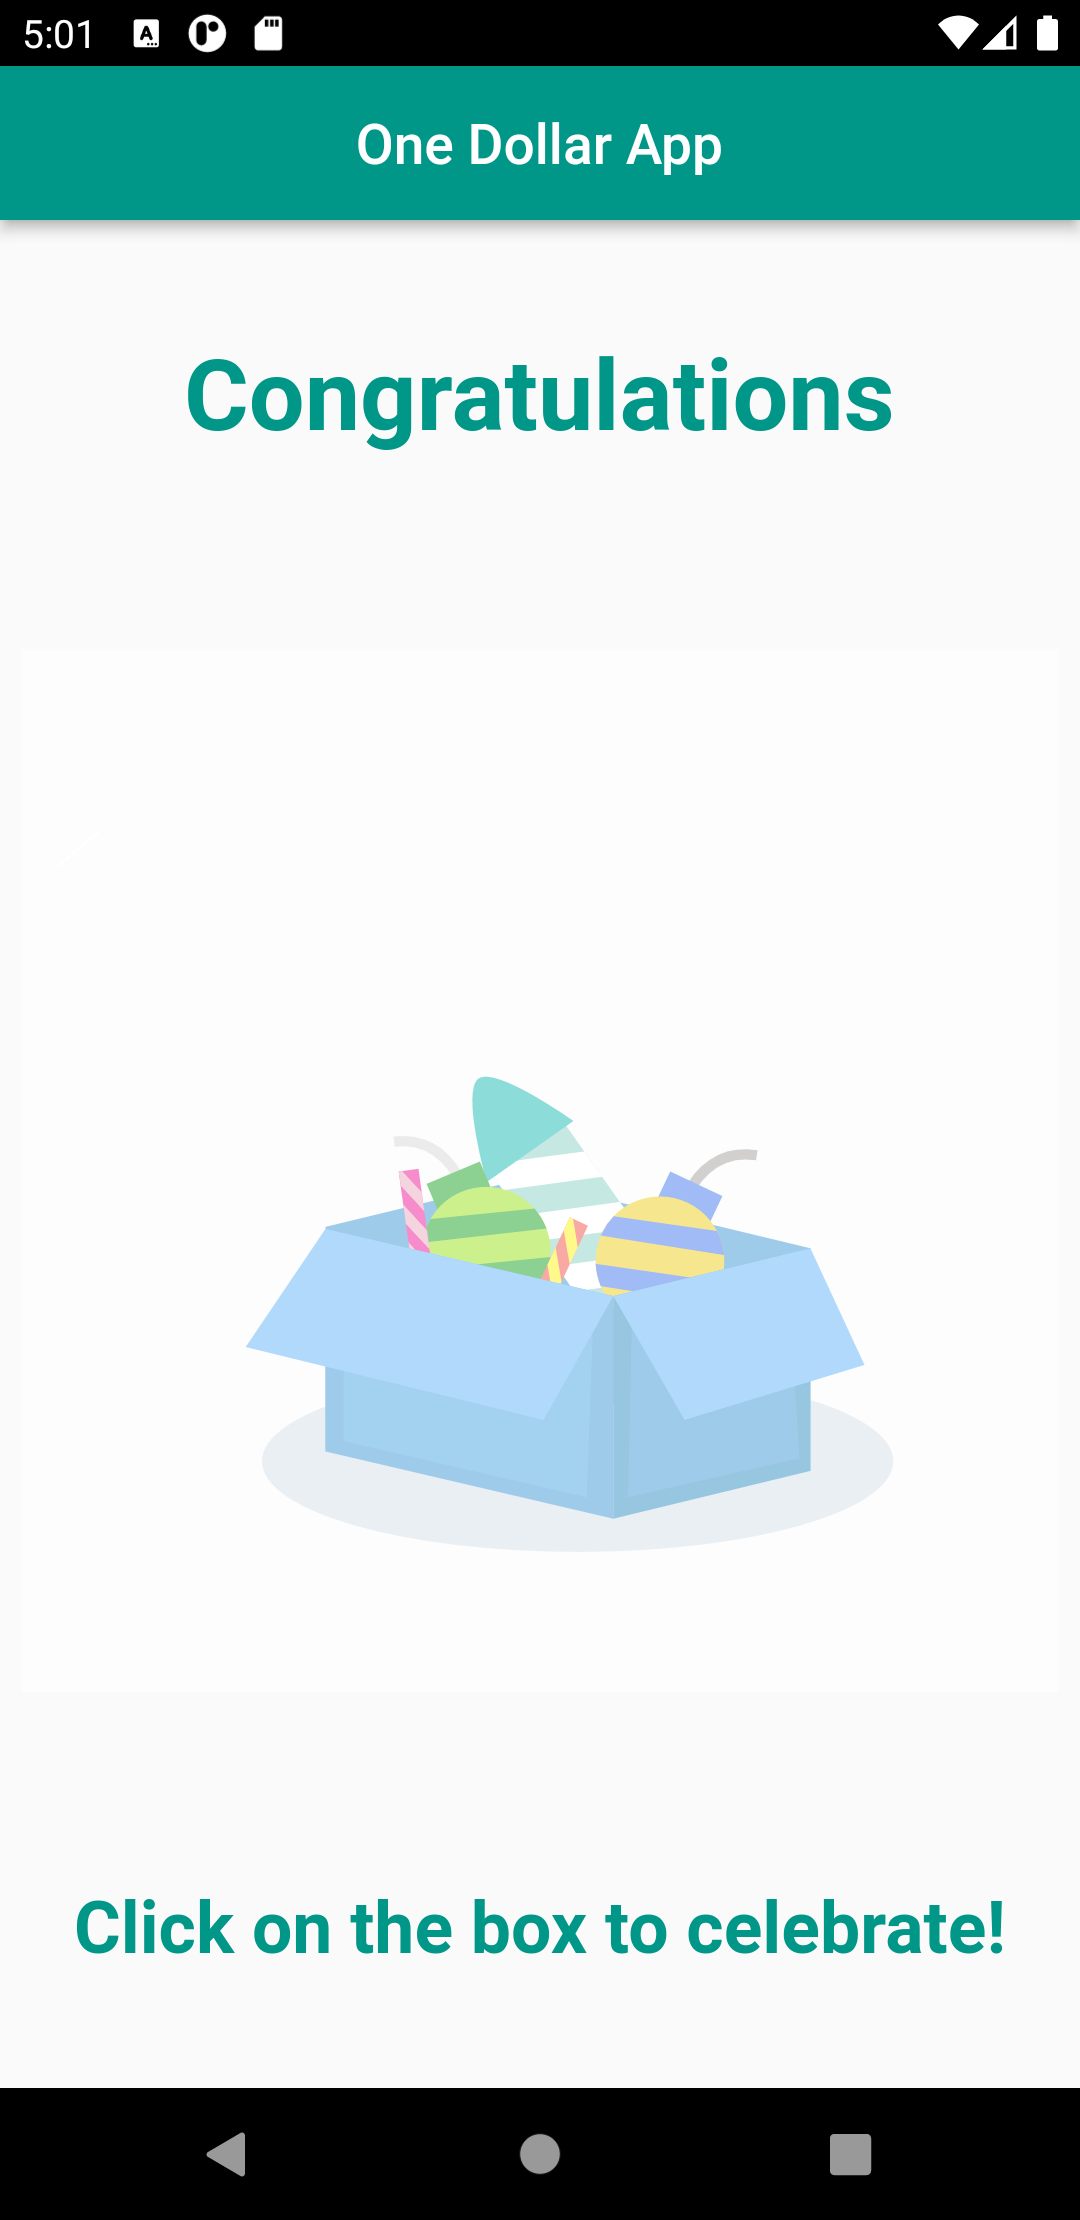
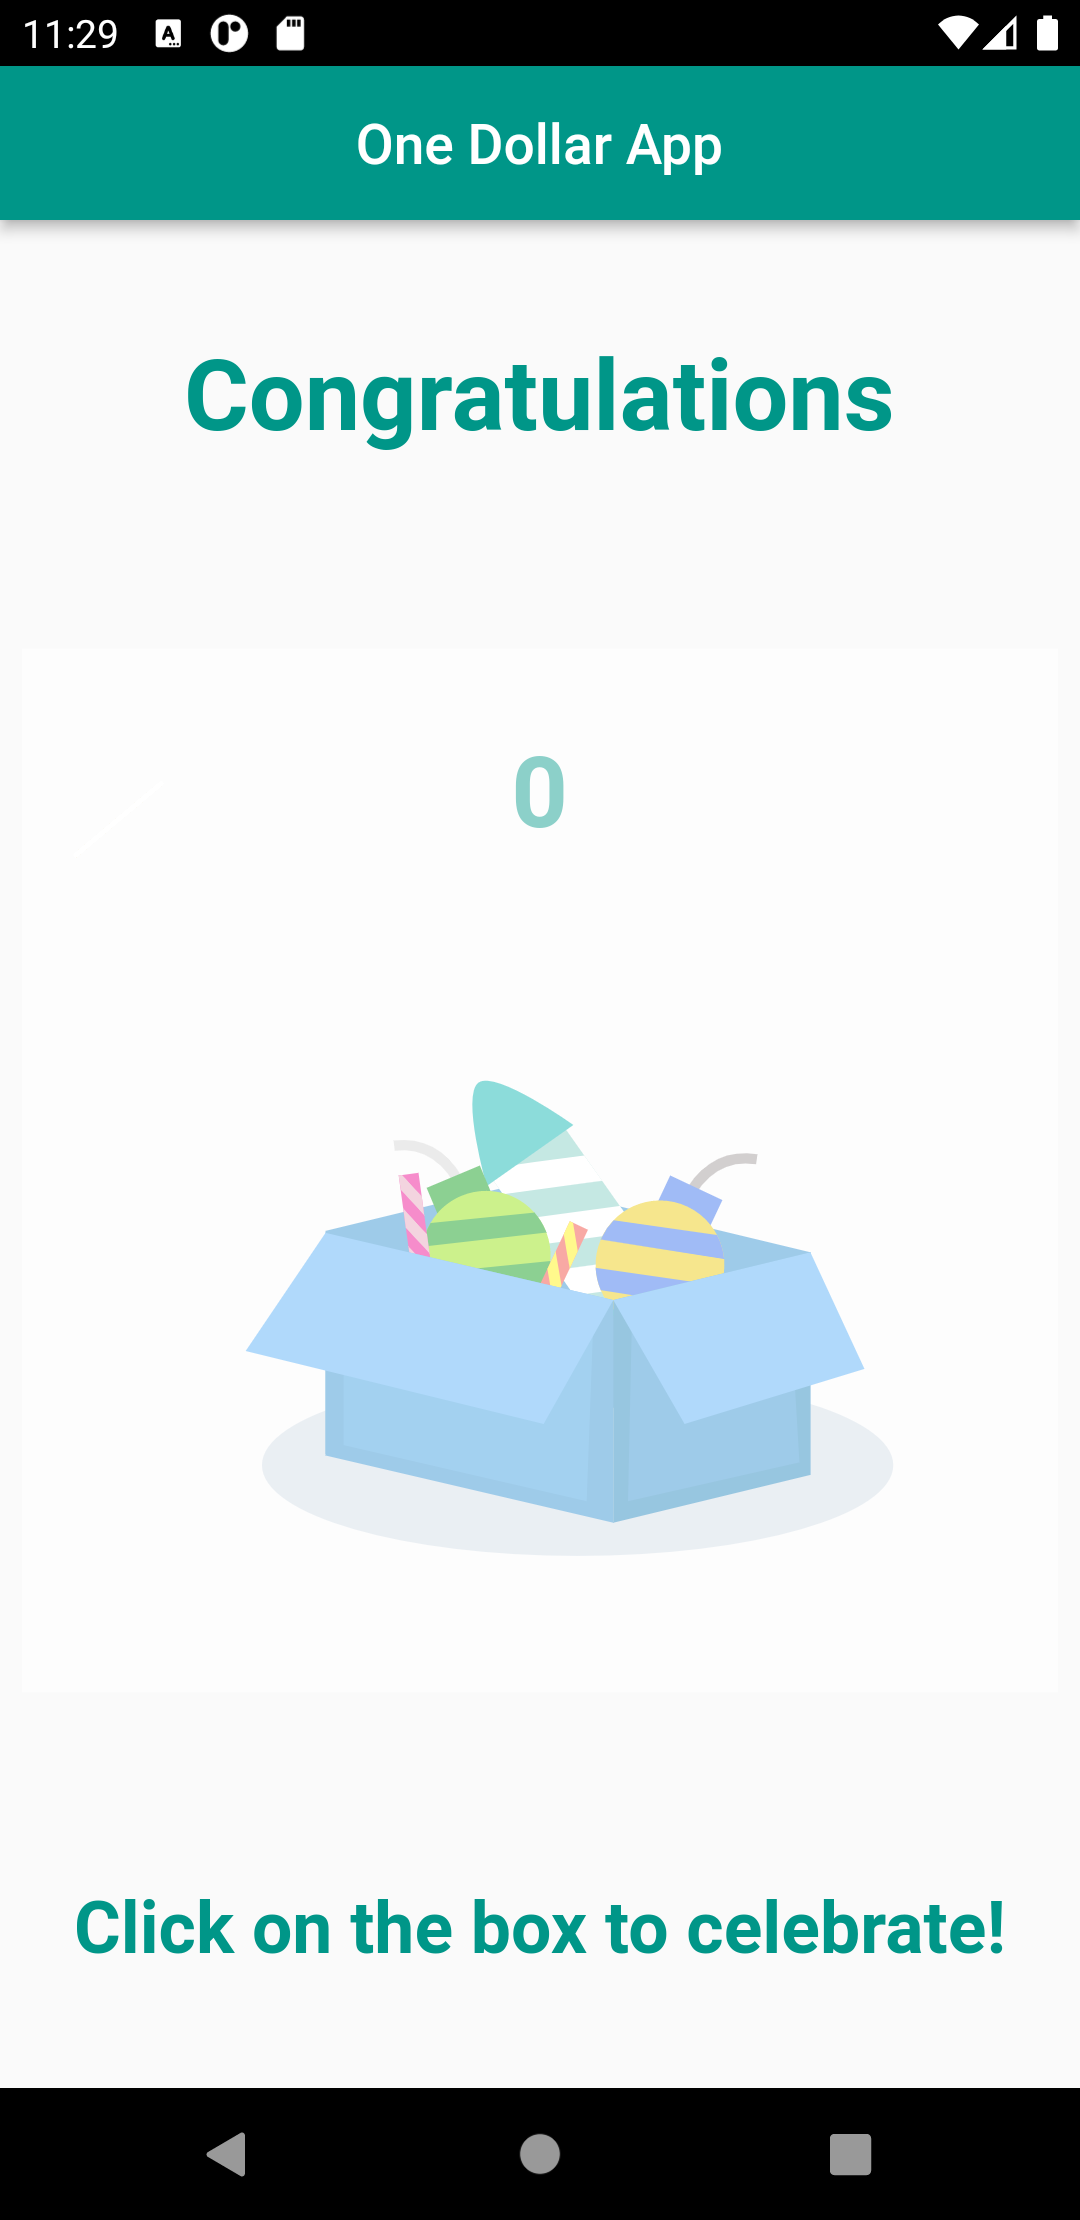
add counter feature

diff --git a/lib/my_home_page.dart b/lib/my_home_page.dart
@@ -13,7 +13,8 @@ class MyHomePage extends StatefulWidget {
 class _MyHomePageState extends State<MyHomePage> with TickerProviderStateMixin {
   late final AnimationController _controller;
   bool isActive = false;
-
+  int counter = 0;
+  //
   @override
   void initState() {
     //
@@ -48,6 +49,7 @@ class _MyHomePageState extends State<MyHomePage> with TickerProviderStateMixin {
         appBar: AppBar(
           title: const Text(AppStrings.oneDollarApp),
           centerTitle: true,
+          backgroundColor: AppStrings.textColor,
         ),
         body: Padding(
           padding: const EdgeInsets.all(8.0),
@@ -60,7 +62,7 @@ class _MyHomePageState extends State<MyHomePage> with TickerProviderStateMixin {
                   style: TextStyle(
                     fontSize: 36,
                     fontWeight: FontWeight.bold,
-                    color: Colors.teal,
+                    color: AppStrings.textColor,
                   ),
                 ),
                 // SizedBox(
@@ -73,23 +75,42 @@ class _MyHomePageState extends State<MyHomePage> with TickerProviderStateMixin {
                       width: double.infinity,
                       child: Lottie.asset(AppStrings.celebrationBoxPath),
                     ),
+                    Padding(
+                      padding: const EdgeInsets.all(32.0),
+                      child: Center(
+                        child: Text(
+                          counter.toString(),
+                          style: TextStyle(
+                            fontSize: 36,
+                            fontWeight: FontWeight.bold,
+                            color: AppStrings.textColor,
+                          ),
+                        ),
+                      ),
+                    ),
                     GestureDetector(
                       child: isActive
-                          ? SizedBox(
-                              height: MediaQuery.of(context).size.height * 0.50,
-                              width: double.infinity,
-                              child: Center(
-                                child: Lottie.asset(
-                                  AppStrings.balloonCelebrationPath,
-                                  animate: false,
-                                  controller: _controller,
-                                  // onLoaded: (composition) {
-                                  //   _controller.duration = composition.duration;
-                                  //   debugPrint(composition.duration.inMilliseconds
-                                  //       .toString());
-                                  // },
+                          ? GestureDetector(
+                              child: SizedBox(
+                                height:
+                                    MediaQuery.of(context).size.height * 0.50,
+                                width: double.infinity,
+                                child: Center(
+                                  child: Lottie.asset(
+                                    AppStrings.balloonCelebrationPath,
+                                    animate: false,
+                                    controller: _controller,
+                                    // onLoaded: (composition) {
+                                    //   _controller.duration = composition.duration;
+                                    //   debugPrint(composition.duration.inMilliseconds
+                                    //       .toString());
+                                    // },
+                                  ),
                                 ),
                               ),
+                              onTap: () {
+                                resetAnimation();
+                              },
                             )
                           : Container(
                               width: double.infinity,
@@ -97,11 +118,7 @@ class _MyHomePageState extends State<MyHomePage> with TickerProviderStateMixin {
                               color: Colors.white.withOpacity(0.55),
                             ),
                       onTap: () {
-                        setState(() {
-                          isActive = true;
-                          debugPrint('pressed');
-                        });
-                        _controller.forward();
+                        startAnimation();
                       },
                     ),
                   ],
@@ -111,7 +128,7 @@ class _MyHomePageState extends State<MyHomePage> with TickerProviderStateMixin {
                   style: TextStyle(
                     fontSize: 26,
                     fontWeight: FontWeight.bold,
-                    color: Colors.teal,
+                    color: AppStrings.textColor,
                   ),
                 ),
               ],
@@ -120,5 +137,23 @@ class _MyHomePageState extends State<MyHomePage> with TickerProviderStateMixin {
         ),
       ),
     );
+  }
+
+  startAnimation() {
+    setState(() {
+      isActive = true;
+      counter++;
+      debugPrint('pressed');
+    });
+    _controller.forward();
+  }
+
+  resetAnimation() {
+    setState(() {
+      _controller.reset();
+      counter++;
+      debugPrint('reset animation !!!');
+    });
+    _controller.forward();
   }
 }

diff --git a/lib/constants.dart b/lib/constants.dart
@@ -1,3 +1,5 @@
+import 'package:flutter/material.dart';
+
 class AppStrings {
   static const String oneDollarApp = 'One Dollar App';
   static const String info = 'Info';
@@ -8,4 +10,5 @@ class AppStrings {
       'assets/animations/celebration_box.json';
   static const String balloonCelebrationPath =
       'assets/animations/balloon_celebration.json';
+  static const textColor = Colors.teal;
 }

diff --git a/README.md b/README.md
@@ -7,6 +7,6 @@
 
  ## ✌ Preview 
  
- <img src=screenshots/image1.png  width="250" height = "500"/> &ensp;   <img src=screenshots/image2.png  width="250" height = "500"/> &ensp; <img src=screenshots/image3.png  width="250" height = "500"/>
+ <img src=screenshots/image1.png  width="200" height = "400"/> &ensp;   <img src=screenshots/image2.png  width="200" height = "400"/> &ensp; <img src=screenshots/image3.png  width="200" height = "400"/> &ensp; <img src=screenshots/image4.png  width="200" height = "400"/>
 
 ## ☎&ensp;abdo.sw.eng@gmail.com
